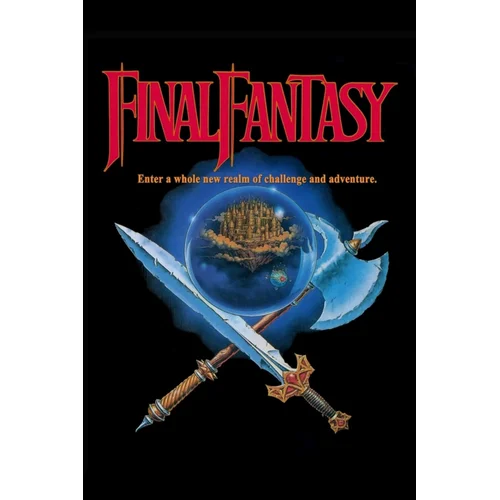
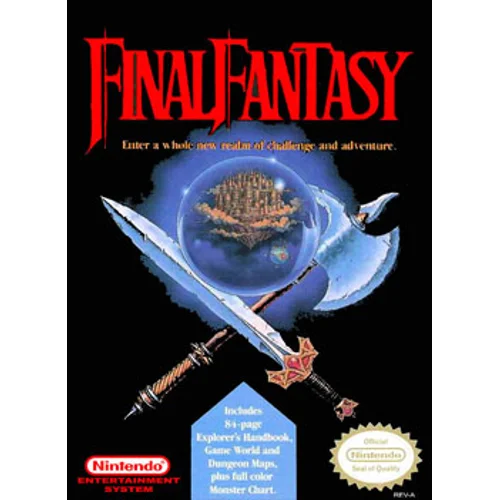
6 verkeerde covers vervangen via Wikipedia: juiste game, betere kwaliteit
Gefixed: NES-002 (was Japanse SFC versie), NES-015 (was Contra 4 DS!),
NES-025 (was poster), SNES-001 (was winkelfoto), N64-010 (was US versie),
GB-001 (was US versie). Fix-wrong-covers script toegevoegd.
Nog te doen: N64-001 (toont PS1 ipv N64), GB-009 (verkeerde game).

https://claude.ai/code/session_011EdCnJANEEC1TvaSLMdMfK

diff --git a/scripts/fix-wrong-covers.js b/scripts/fix-wrong-covers.js
@@ -1,0 +1,97 @@
+const { execSync } = require('child_process');
+const sharp = require('sharp');
+const fs = require('fs');
+const path = require('path');
+
+const DIR = 'public/images/products';
+
+// Confirmed wrong covers with specific search terms for PAL versions
+const fixes = [
+  { file: 'n64-001-tony-hawk-s-pro-skater-2.webp', search: "Tony Hawk's Pro Skater 2 Nintendo 64", wiki: "Tony_Hawk%27s_Pro_Skater_2" },
+  { file: 'n64-010-conker-s-bad-fur-day.webp', search: "Conker's Bad Fur Day Nintendo 64 PAL", wiki: "Conker%27s_Bad_Fur_Day" },
+  { file: 'n64-020-goldeneye-007.webp', search: 'GoldenEye 007 Nintendo 64 PAL', wiki: 'GoldenEye_007_(1997_video_game)' },
+  { file: 'snes-001-chrono-trigger.webp', search: 'Chrono Trigger SNES box art', wiki: 'Chrono_Trigger' },
+  { file: 'gb-001-bionic-commando-elite-forces.webp', search: 'Bionic Commando Elite Forces Game Boy Color', wiki: 'Bionic_Commando:_Elite_Forces' },
+  { file: 'gb-009-dragon-warrior-monsters.webp', search: 'Dragon Warrior Monsters Game Boy Color', wiki: 'Dragon_Quest_Monsters' },
+  { file: 'nes-002-dragon-warrior-iii.webp', search: 'Dragon Warrior III NES box art', wiki: 'Dragon_Quest_III' },
+  { file: 'nes-010-blaster-master.webp', search: 'Blaster Master NES PAL box art', wiki: 'Blaster_Master' },
+  { file: 'nes-015-contra.webp', search: 'Contra NES PAL Probotector box art', wiki: 'Contra_(video_game)' },
+  { file: 'nes-025-final-fantasy.webp', search: 'Final Fantasy NES box art', wiki: 'Final_Fantasy_(video_game)' },
+];
+
+async function downloadFromWikipedia(wikiTitle) {
+  try {
+    const url = `https://en.wikipedia.org/api/rest_v1/page/summary/${wikiTitle}`;
+    const json = execSync(`curl -sL "${url}" -H "User-Agent: GameshopBot/1.0"`, { timeout: 15000 }).toString();
+    const data = JSON.parse(json);
+    if (data.thumbnail && data.thumbnail.source) {
+      // Get higher res version
+      let imgUrl = data.thumbnail.source.replace(/\/\d+px-/, '/500px-');
+      return imgUrl;
+    }
+    if (data.originalimage && data.originalimage.source) {
+      return data.originalimage.source;
+    }
+  } catch (e) {
+    console.log('  Wikipedia API fout:', e.message);
+  }
+  return null;
+}
+
+async function downloadAndConvert(url, outPath) {
+  try {
+    const tmpFile = '/tmp/cover-fix-' + Date.now() + '.tmp';
+    execSync(`curl -sL -o "${tmpFile}" --connect-timeout 10 --max-time 20 "${url}" -H "User-Agent: GameshopBot/1.0"`, { timeout: 25000 });
+
+    const stats = fs.statSync(tmpFile);
+    if (stats.size < 3000) {
+      fs.unlinkSync(tmpFile);
+      return false;
+    }
+
+    const meta = await sharp(tmpFile).metadata();
+    if (meta.width < 150 || meta.height < 150) {
+      fs.unlinkSync(tmpFile);
+      return false;
+    }
+
+    await sharp(tmpFile)
+      .resize(500, 500, { fit: 'contain', background: { r: 255, g: 255, b: 255 } })
+      .webp({ quality: 85 })
+      .toFile(outPath);
+
+    const newSize = fs.statSync(outPath).size / 1024;
+    fs.unlinkSync(tmpFile);
+    console.log(`  ✅ ${newSize.toFixed(1)}KB (${meta.width}x${meta.height} bron)`);
+    return true;
+  } catch (e) {
+    console.log(`  ❌ Download fout: ${e.message}`);
+    return false;
+  }
+}
+
+async function main() {
+  let fixed = 0;
+
+  for (const fix of fixes) {
+    const outPath = path.join(DIR, fix.file);
+    console.log(`\n${fix.file}:`);
+
+    // Try Wikipedia first
+    console.log('  Probeer Wikipedia...');
+    const wikiUrl = await downloadFromWikipedia(fix.wiki);
+    if (wikiUrl) {
+      console.log(`  Bron: ${wikiUrl.substring(0, 80)}...`);
+      if (await downloadAndConvert(wikiUrl, outPath)) {
+        fixed++;
+        continue;
+      }
+    }
+
+    console.log('  Wikipedia onvoldoende, skipping voor nu');
+  }
+
+  console.log(`\n=== Klaar: ${fixed}/${fixes.length} covers vervangen ===`);
+}
+
+main();
